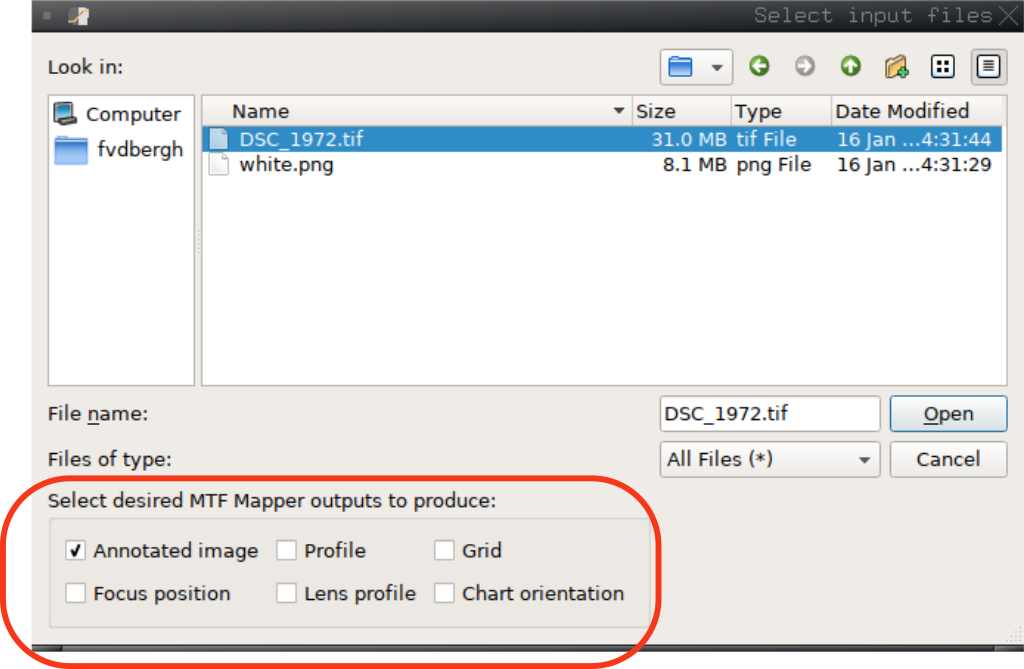
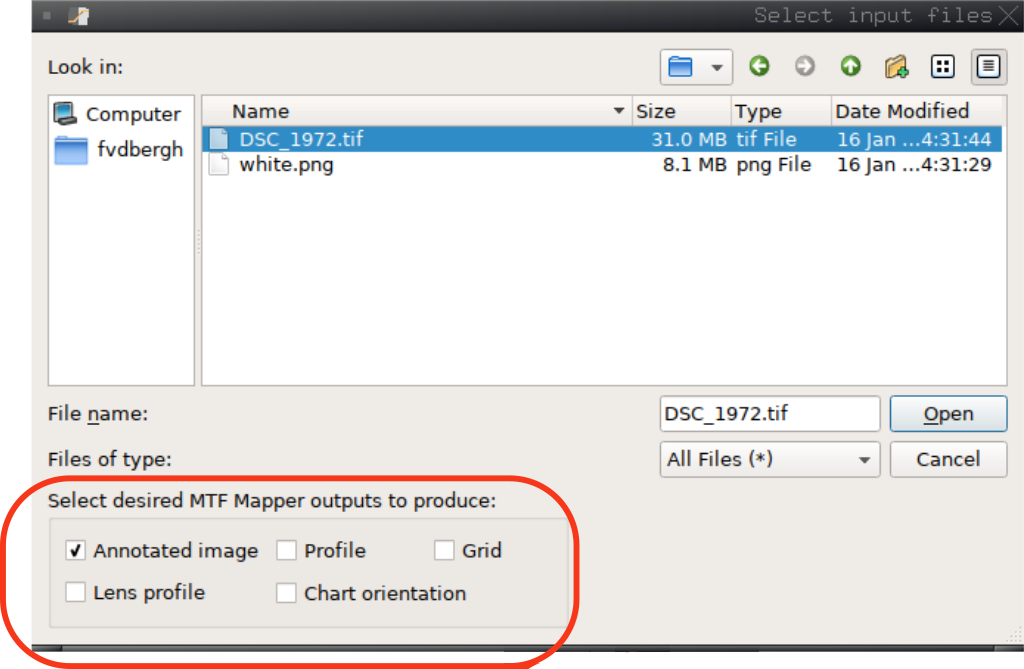
updated documentation to reflect GUI changes

Changed region(s): [[0.2812, 0.7474, 0.6562, 1.0], [0.5, 0.6876, 0.625, 0.8072], [0.0938, 0.867, 0.2188, 0.8969]]

diff --git a/doc/mtf_mapper_user_guide.tex b/doc/mtf_mapper_user_guide.tex
@@ -350,7 +350,14 @@ files) by choosing \textsf{File/Open} from the menu bar. That gives you the
 dialog depicted in Figure~\ref{fig:file_dialog}. Input files can be in a variety 
 of image formats, including \texttt{.tif, .png, .jpg, .pgm}, 
 or any raw format supported by \verb+dcraw+, including 
-\texttt{.nef, .cr2, .pef, .arw}, and many more.
+\texttt{.nef, .cr2, .pef, .arw, .orf, .rw2, .dng, .iiq, .mos}, and maybe more.
+
+You may notice that there are two additional \textsf{Open} options, namely
+\textsf{Open single edge image(s)}, and \textsf{Open Focus Position
+image(s)}. These two entries are used to open very specific type of images,
+which are discussed in Section~\ref{sec:single_roi_mode} and Section~\ref{sec:focus_distance_details}
+respectively. Unless you are dealing with these specific image types, use
+the plain \textsf{File/Open} option.
 
 \newpage
 
@@ -806,7 +813,9 @@ with this chart.
 \vspace{1ex}
 
 This chart type is intended to be used with the MTF Mapper \textsf{Focus
-position} output type. Trying to produce other MTF Mapper output types using
+position} output type, which can only be selected by choosing 
+\textsf{File Focus Position image(s)} from the \textsf{File} menu in the GUI.
+Trying to produce other MTF Mapper output types using
 this test chart is not recommended.
 
 \subsubsection{mfperspective}
@@ -1071,7 +1080,10 @@ should reveal the truth.
 \label{sec:focus_distance_details}
 A brief description of the \textsf{Focus position} output type can be found in
 Section~\ref{sec:focus_distance}; this section covers some important
-details. 
+details. Note that since MTF Mapper 0.6.20 this output type can only 
+be produced by opening the files using \textsf{File/Open Focus Position
+image(s)}, but in older versions a regular checkbox existed to select this 
+output type.
 
 \begin{figure}[ht!]
 \centering
@@ -1455,8 +1467,8 @@ images.
 
 Figure~\ref{fig:single_roi_mode} shows one example of such a cropped image
 of a slanted edge. To use such an image with MTF Mapper, just pass the
-\texttt{--single-roi} option to the command-line tool, or add it to the
-`Arguments' field in the \textsf{Preferences} dialog. Of course, the only
+\texttt{--single-roi} option to the command-line tool, or open your files
+using the \textsf{File/Open single edge images(s)} GUI option. Of course, the only
 sensible visual output for such an input image would be the \textsf{Annotated
 image} option; from there you can view the SFR curve in the gui. (Or see the
 \texttt{-q} output option for the command-line tool).

diff --git a/src/gui/worker_thread.cc b/src/gui/worker_thread.cc
@@ -238,7 +238,6 @@ QString Worker_thread::update_arguments(QString& s) {
         arguments.replace("-p ", " ");
         arguments.replace("--profile ", " ");
         arguments.replace("--focus ", " ");
-        arguments.replace("--mf-focus ", " ");
         arguments.replace("--chart-orientation ", " ");
     }
     
